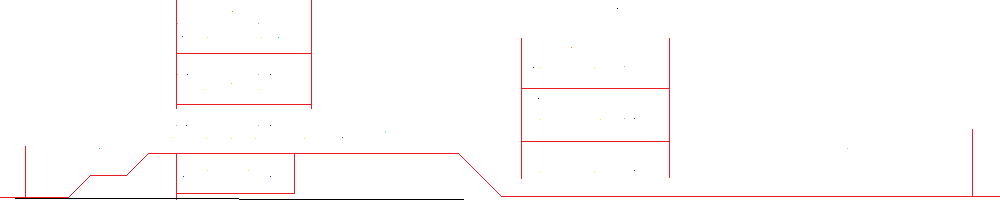
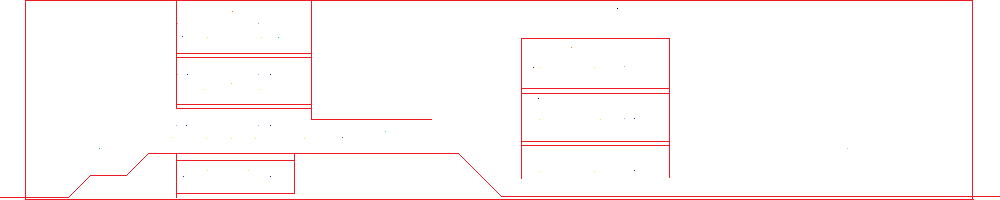
Correcciones en el mapa

diff --git a/src/Game/CollisionChecker.java b/src/Game/CollisionChecker.java
@@ -87,7 +87,7 @@ public class CollisionChecker {
                 if(player.getBox().intersects(i.getBox())){
                     i.setInRange(true);
                     if(gp.kb.pressW()){
-                        player.setY(player.getY()-gp.scale*90);
+                        player.setY(player.getY()-gp.scale*80);
                         i.setInRange(false);
                     }
                 }
@@ -96,7 +96,7 @@ public class CollisionChecker {
                 if(player.getBox().intersects(i.getBox())){
                     i.setInRange(true);
                     if(gp.kb.pressS()){
-                        player.setY(player.getY()+gp.scale*10);
+                        player.setY(player.getY()+gp.scale*20);
                         i.setInRange(false);
                     }
                 }

diff --git a/src/Game/LevelCreator.java b/src/Game/LevelCreator.java
@@ -55,7 +55,7 @@ public class LevelCreator {
                 int green = (pixel>>8) & 0xff;
                 int blue = (pixel) & 0xff;
                 if(red == 255 && green == 255 && blue == 255){
-                    gp.player.setX(bloque*x-100);
+                    gp.player.setX(bloque*x-150);
                     gp.player.setY(bloque*y);
                 }
                 else if(red == 237 && green == 28 && blue == 36){
@@ -112,7 +112,7 @@ public class LevelCreator {
         }
     }
     public void paint(Graphics g) {
-        g.drawImage(image,0,0, gp.getWorldWidth(), gp.getWorldHeight(),null);
+        g.drawImage(image,-50*bloque,-56*bloque, gp.getWorldWidth()+123*bloque, gp.getWorldHeight()+105*bloque,null);
     }
     
 }
